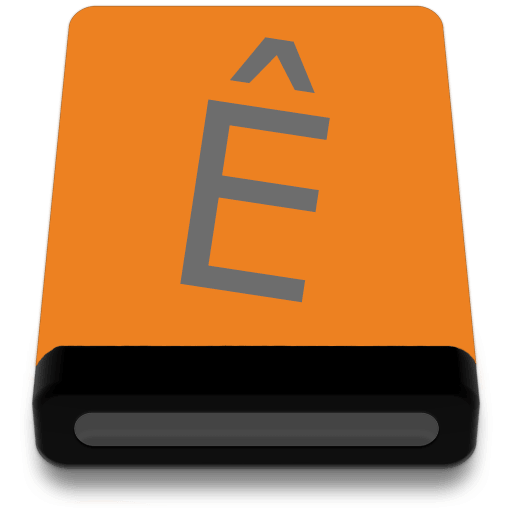
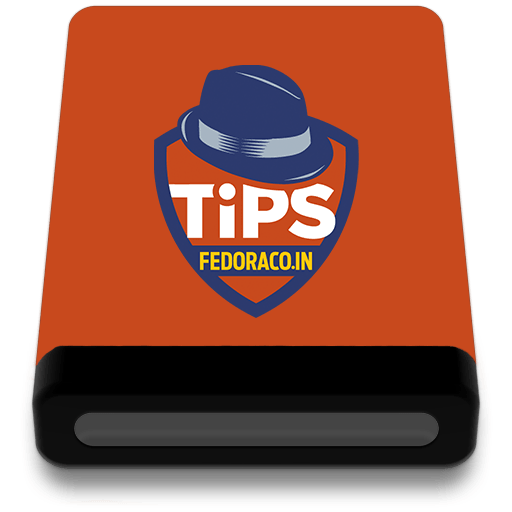
Updated FedoraCoin
- Changed logo for tips blockexplorer
- Changed image for tips wallet
- Updated wallet link.

diff --git a/index.html b/index.html
@@ -108,7 +108,7 @@
                         data-anchor-target="#slide-3">
                         <h1>OSX Wallets</h1>
                         <div id="test">
-                            <a href="http://chainexplorer.info/files/FedoraCoin-Qt 0.60.dmg" id="centerer">
+                            <a href="http://chainexplorer.info/files/FedoraCoin-Qt 1.0.dmg" id="centerer">
                                 <img src="./img/tips.png" id="centered">
                             </a>
                             <a href="http://chainexplorer.info/files/MintCoin-Qt 1.5.dmg" id="centerer">

diff --git a/osx.html b/osx.html
@@ -30,7 +30,7 @@
     <div class="vertical">
         <h1>OSX Wallets</h1>
             <div id="test">
-                <a href="http://chainexplorer.info/files/FedoraCoin-Qt 0.60.dmg" id="centerer">
+                <a href="http://chainexplorer.info/files/FedoraCoin-Qt 1.0.dmg" id="centerer">
                     <img src="./img/tips.png" id="centered">
                 </a>
                 <a href="http://chainexplorer.info/files/MintCoin-Qt 1.5.dmg" id="centerer">
